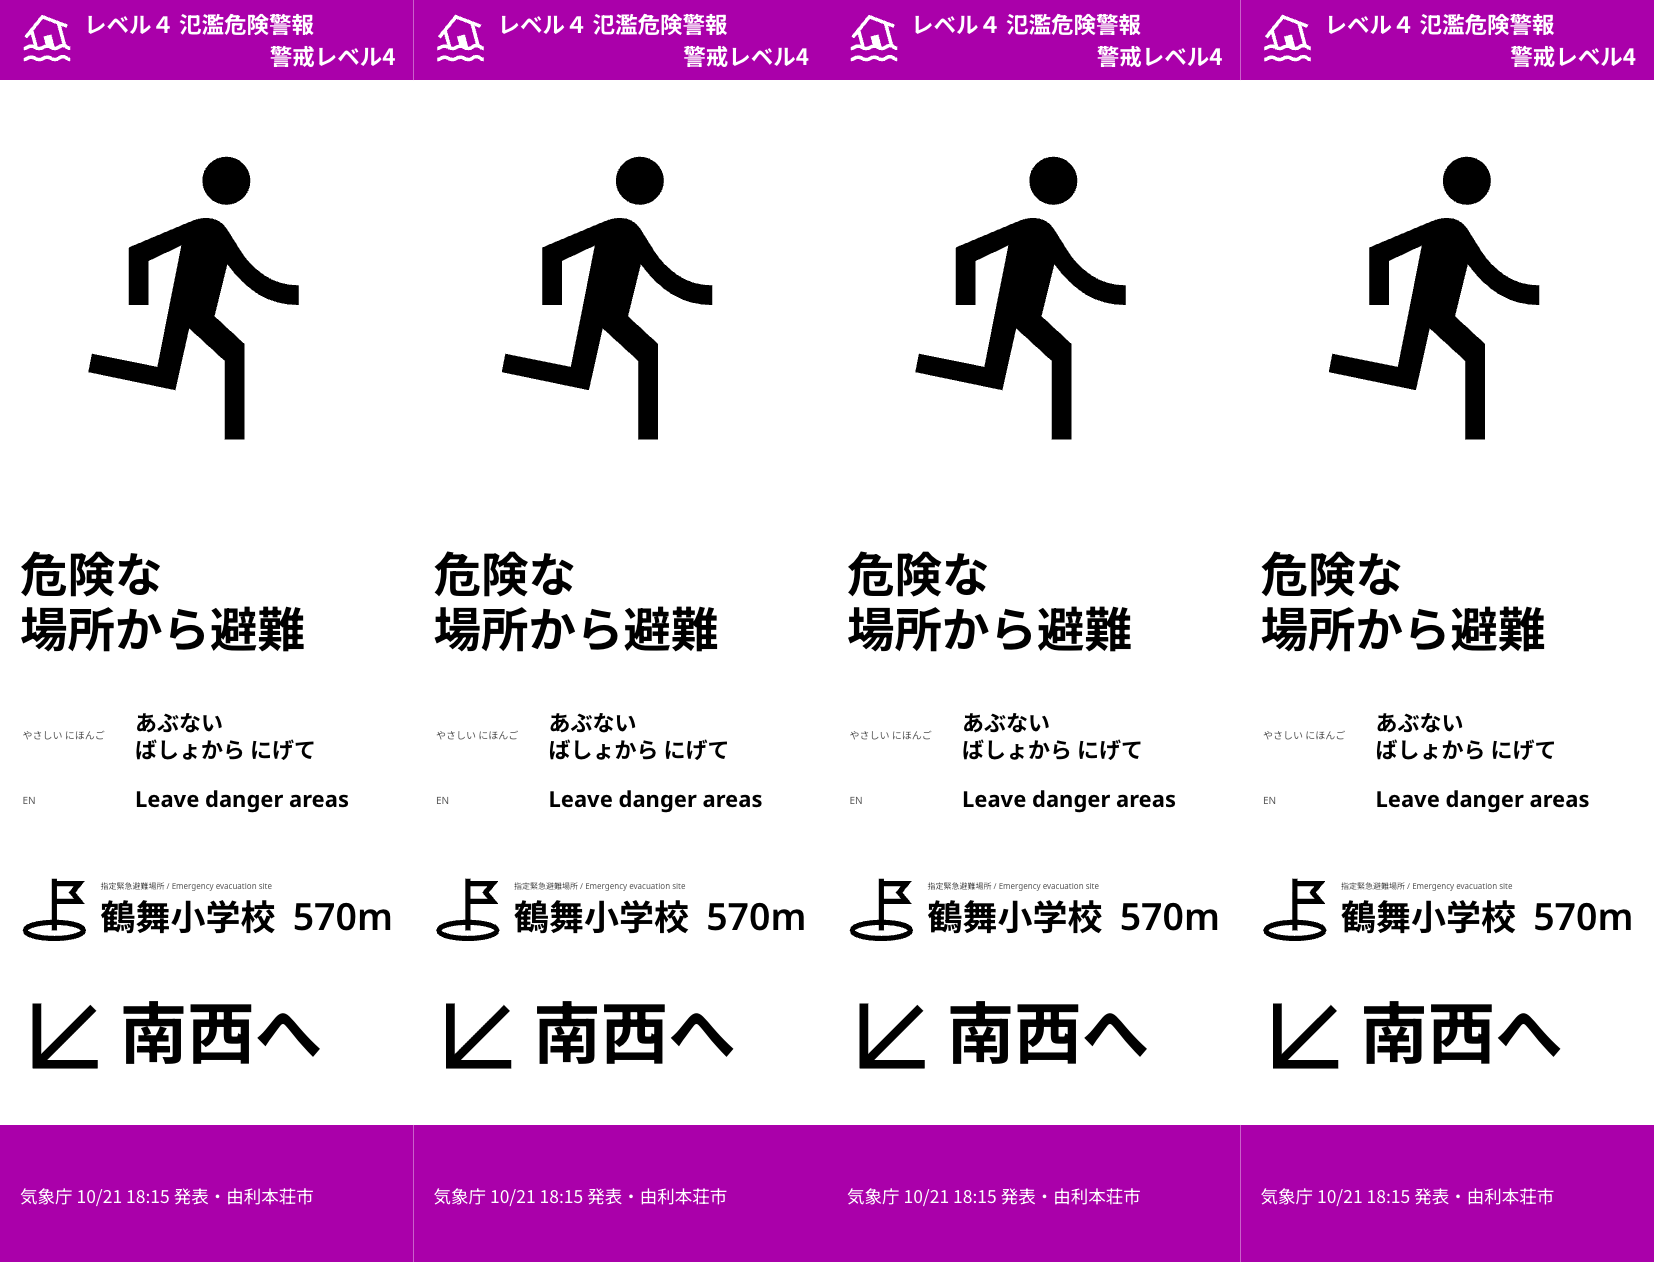
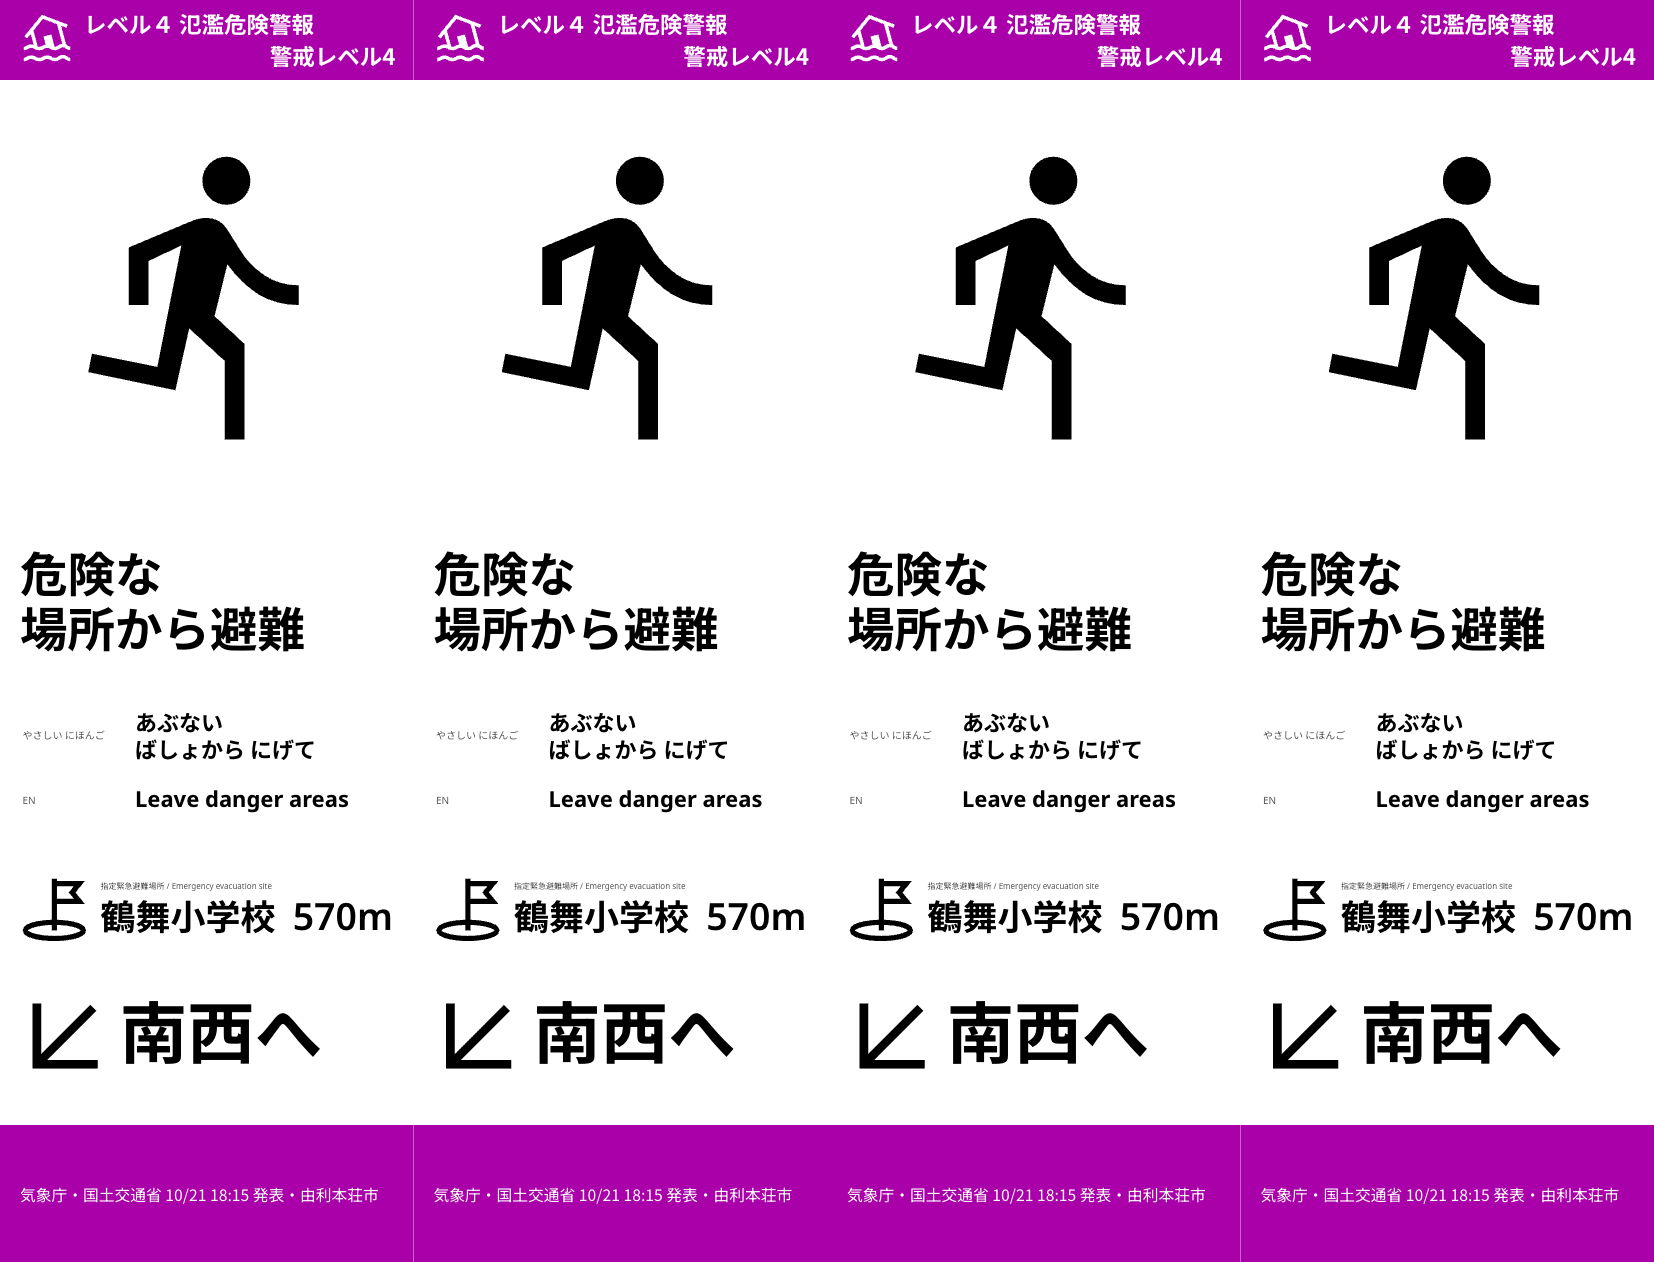
fix(layout): the source line never wraps; one that does not fit is set one step smaller
The pillar's foot band broke 気象庁・国土交通省 … 由利本荘市 before 市; every
Figma shape now keeps the source on one line and steps it to 0.9 when it
does not fit. A test renders the long source on all five shapes.
docs/screens regenerated.

diff --git a/app/test/source-line.test.ts b/app/test/source-line.test.ts
@@ -1,0 +1,76 @@
+import assert from 'node:assert/strict'
+import type { ChildProcess } from 'node:child_process'
+import { existsSync } from 'node:fs'
+import { createRequire } from 'node:module'
+import { after, before, describe, test } from 'node:test'
+import type { Shape } from '../layout/types.ts'
+import { SERVER_ENTRY, startServer } from './helpers.ts'
+
+const require = createRequire(import.meta.url)
+const puppeteer = require('puppeteer-core') as typeof import('puppeteer-core')
+
+const CHROME_PATH = process.env.CHROME_PATH ?? '/Applications/Google Chrome.app/Contents/MacOS/Google Chrome'
+const MUNICIPALITY = '05210'
+const LONG_SOURCE = '気象庁・国土交通省 10/21 15:55 発表・由利本荘市'
+const BULLETIN = 'VXKOii-202610211555-d5ccc7c6b547'
+const SIZES: Record<Shape, [number, number]> = { '16x9': [1920, 1080], '9x16': [1080, 1920], '32x9': [3840, 1080], '1x1': [1080, 1080], pillar: [6616, 5046] }
+const READY_MS = 30000
+
+const skip = (!existsSync(SERVER_ENTRY) && 'run `pnpm -F app build` first') || (!existsSync(CHROME_PATH) && `no Chrome at ${CHROME_PATH}`)
+
+// The source line never wraps: one that does not fit is set one step smaller (SOURCE_STEP_DOWN).
+describe('the source line stays on one line on every shape', { skip }, () => {
+  let base = ''
+  let child: ChildProcess | undefined
+  let browser: import('puppeteer-core').Browser | undefined
+
+  before(async () => {
+    ;({ base, child } = await startServer({ NUXT_ADMIN_TOKEN: '' }))
+    browser = await puppeteer.launch({ executablePath: CHROME_PATH })
+  })
+  after(async () => {
+    await browser?.close()
+    child?.kill()
+  })
+
+  for (const shape of Object.keys(SIZES) as Shape[]) {
+    test(shape, async () => {
+      const [width, height] = SIZES[shape]
+      const page = await browser!.newPage()
+      try {
+        await page.setViewport({ width, height, deviceScaleFactor: shape === 'pillar' ? 0.15 : 0.25 })
+        await page.evaluateOnNewDocument((source: string) => {
+          const original = window.fetch
+          window.fetch = async (input, init) => {
+            const response = await original(input, init)
+            const url = typeof input === 'string' ? input : input instanceof URL ? input.href : input.url
+            if (!url.includes('/api/admin/preview-layout')) return response
+            const screen = await response.json()
+            const cell = screen.cells.find((c: { role: string }) => c.role === 'source')
+            if (cell) cell.text = { ...cell.text, ja: source }
+            else screen.cells.push({ id: 'source', role: 'source', priority: 9, text: { ja: source }, motion: 'static' })
+            return new Response(JSON.stringify(screen), { status: 200, headers: { 'content-type': 'application/json' } })
+          }
+        }, LONG_SOURCE)
+        const src = encodeURIComponent(`/api/admin/preview-layout?municipality=${MUNICIPALITY}&bulletin=${BULLETIN}&shape=${shape}`)
+        await page.goto(`${base}/screen?shape=${shape}&clock=virtual&t=14480&src=${src}`, { waitUntil: 'networkidle0' })
+        await page.waitForSelector('.evac-screen[data-ready="1"]', { timeout: READY_MS })
+        const lines = await page.evaluate(() =>
+          [...document.querySelectorAll('.evac-screen')].map((el) => {
+            const source = el.querySelector('.source-text') as HTMLElement
+            const rect = source.getBoundingClientRect()
+            return { overflow: (el as HTMLElement).dataset.overflow ?? '', missing: (el as HTMLElement).dataset.missingRequired ?? '', text: source.textContent?.trim() ?? '', lines: Math.round(rect.height / parseFloat(getComputedStyle(source).lineHeight)), fits: source.scrollWidth <= source.clientWidth + 1 }
+          }),
+        )
+        for (const line of lines) {
+          assert.equal(line.text, '気象庁・国土交通省 10/21 15:55 発表・由利本荘市', `${shape} shows the whole source`)
+          assert.equal(line.lines, 1, `${shape} keeps the source on one line`)
+          assert.ok(line.fits, `${shape} fits the source in its line`)
+          assert.deepEqual([line.overflow, line.missing], ['', ''], `${shape} overflow/missing`)
+        }
+      } finally {
+        await page.close()
+      }
+    })
+  }
+})

diff --git a/app/app/components/EvacScreen.vue b/app/app/components/EvacScreen.vue
@@ -6,7 +6,7 @@ import { SHAPES, designScale } from '~~/layout/shapes'
 import { STACKED_BAND_MIN_PX, resolveLayout } from '~~/layout/templates'
 import { OVERFLOW_PICTOGRAM, overflowAttr, type CellOverflow } from '~~/layout/overflow'
 import type { DroppedCell, EvacScreen, LayoutCell, Shape } from '~~/layout/types'
-import { HEADLINE_STEP_DOWN, LINE_HEIGHT, SHELTER_STEP_DOWN, TYPE_PX } from '~~/layout/typography'
+import { HEADLINE_STEP_DOWN, LINE_HEIGHT, SHELTER_STEP_DOWN, SOURCE_STEP_DOWN, TYPE_PX } from '~~/layout/typography'
 import { pictogramsSettled } from '~/composables/usePictogramInk'
 
 const props = defineProps<{
@@ -34,6 +34,7 @@ const headlineScale = ref(1)
 const shelterNarrow = ref(false)
 const distanceBelow = ref(false)
 const languagesNarrow = ref(false)
+const sourceNarrow = ref(false)
 const stackedHeadline = computed(() => ['portrait', 'square', 'pillar'].includes(SHAPES[props.shape].cls))
 // 32:9 sets the headline in a narrow column, so it gets the same two-line limit as the stacked bands.
 const headlineLimited = computed(() => stackedHeadline.value || SHAPES[props.shape].cls === 'ribbon')
@@ -77,6 +78,7 @@ const rootStyle = computed(() => ({
   ...(shelterNarrow.value && layout.value.type?.shelterNarrow ? { '--type-shelter': layout.value.type.shelterNarrow } : {}),
   ...(shelterNarrow.value && !layout.value.figma ? { '--shelter-scale': SHELTER_STEP_DOWN } : {}),
   ...(languagesNarrow.value && layout.value.type?.languagesNarrow ? { '--type-languages': layout.value.type.languagesNarrow } : {}),
+  ...(sourceNarrow.value ? { '--source-scale': SOURCE_STEP_DOWN } : {}),
 }))
 
 const language = computed(() => languageStep(props.elapsedMs))
@@ -182,6 +184,11 @@ function shelterNameWraps(): boolean {
   return twoLines || lineTops.size > 1 || name.scrollWidth > name.clientWidth + OVERFLOW_TOLERANCE_PX
 }
 
+function sourceTooWide(): boolean {
+  const source = root.value?.querySelector<HTMLElement>('.source-text')
+  return !!source && source.scrollWidth > source.clientWidth + OVERFLOW_TOLERANCE_PX
+}
+
 async function fit() {
   const generation = ++fitGeneration
   ready.value = false
@@ -190,6 +197,7 @@ async function fit() {
   shelterNarrow.value = false
   distanceBelow.value = false
   languagesNarrow.value = false
+  sourceNarrow.value = false
   await loadFonts()
   for (;;) {
     await nextTick()
@@ -204,6 +212,10 @@ async function fit() {
     }
     if (layout.value.distanceBelow && !distanceBelow.value && shelterNameWraps()) {
       distanceBelow.value = true
+      continue
+    }
+    if (layout.value.figma && !sourceNarrow.value && sourceTooWide()) {
+      sourceNarrow.value = true
       continue
     }
     const over = measureOverflow()
@@ -276,6 +288,7 @@ watch(() => [props.screen, props.shape, props.variant], fit)
     :data-shelter-scale="shelterNarrow ? 'narrow' : undefined"
     :data-distance="distanceBelow ? 'below' : undefined"
     :data-languages-scale="languagesNarrow ? 'narrow' : undefined"
+    :data-source-scale="sourceNarrow ? 'narrow' : undefined"
     :data-ready="ready ? '1' : '0'"
     :data-bulletin-id="screen.alert.bulletin_id"
   >

diff --git a/app/app/assets/screen.css b/app/app/assets/screen.css
@@ -219,7 +219,8 @@ body {
   gap: calc(35 * var(--px));
 }
 .evac-screen.shape-portrait .is-figma .source-text {
-  font-size: calc(var(--type-source) * var(--px));
+  font-size: calc(var(--type-source) * var(--source-scale, 1) * var(--px));
+  white-space: nowrap;
   line-height: 1.1;
 }
 .evac-screen.shape-portrait,
@@ -348,7 +349,8 @@ body {
   top: calc(5 * var(--px));
 }
 .evac-screen.shape-landscape .is-figma .source-text {
-  font-size: calc(var(--type-source) * var(--px));
+  font-size: calc(var(--type-source) * var(--source-scale, 1) * var(--px));
+  white-space: nowrap;
   line-height: 1.2;
   text-align: right;
 }
@@ -383,7 +385,8 @@ body {
 }
 .evac-screen.shape-ribbon .is-figma .source-text {
   padding-left: calc(4 * var(--px));
-  font-size: calc(var(--type-source) * var(--px));
+  font-size: calc(var(--type-source) * var(--source-scale, 1) * var(--px));
+  white-space: nowrap;
   line-height: 1.2;
 }
 .evac-screen.shape-ribbon .is-figma .action-text {
@@ -611,10 +614,10 @@ body {
   overflow: visible;
 }
 .evac-screen.shape-square .is-figma .source-text {
-  font-size: calc(var(--type-source) * var(--px));
+  font-size: calc(var(--type-source) * var(--source-scale, 1) * var(--px));
+  white-space: nowrap;
   line-height: 1.2;
   color: var(--dark-band-ink);
-  white-space: nowrap;
 }
 
 .evac-screen.shape-pillar .is-figma .role-headline.is-stacked {
@@ -733,9 +736,10 @@ body {
 }
 .evac-screen.shape-pillar .cell.is-figma.is-band-row {
   align-items: flex-start;
-  padding: calc(238 * var(--px)) 0 0 calc(80 * var(--px));
+  padding: calc(238 * var(--px)) calc(82 * var(--px)) 0 calc(80 * var(--px));
 }
 .evac-screen.shape-pillar .is-figma .source-text {
-  font-size: calc(var(--type-source) * var(--px));
+  font-size: calc(var(--type-source) * var(--source-scale, 1) * var(--px));
+  white-space: nowrap;
   line-height: 1.2;
 }

diff --git a/app/layout/typography.ts b/app/layout/typography.ts
@@ -41,6 +41,8 @@ export const TYPE_PX: Record<TypeStep, number> = {
 export const HEADLINE_STACKED_MAX_LINES = 2
 // Headline and facility name shrink to the same floor (司令官 2026-11-05).
 export const HEADLINE_STEP_DOWN = 0.8
+// The source line never wraps; one that does not fit its line is set one step smaller (司令官 2026-11-05 L-7).
+export const SOURCE_STEP_DOWN = 0.9
 // A facility name that wraps is set one step smaller first (the 9:16 artboard's 90 → 72).
 export const SHELTER_STEP_DOWN = 0.8
 

diff --git a/docs/screens.md b/docs/screens.md
@@ -9,11 +9,11 @@ Regenerate with `pnpm -F app screens` (production build, loopback admin preview)
 
 ![レベル３氾濫警報 (16x9)](screens/lv3-16x9.png)
 
-2026-10-21 15:55 JST · レベル３氾濫警報 · 警戒レベル3 — source line: 気象庁 10/21 15:55 発表・由利本荘市
+2026-10-21 15:55 JST · レベル３氾濫警報 · 警戒レベル3 — source line: 気象庁・国土交通省 10/21 15:55 発表・由利本荘市
 
 ![レベル４氾濫危険警報 (16x9)](screens/lv4-16x9.png)
 
-2026-10-21 18:15 JST · レベル４氾濫危険警報 · 警戒レベル4 — source line: 気象庁 10/21 18:15 発表・由利本荘市
+2026-10-21 18:15 JST · レベル４氾濫危険警報 · 警戒レベル4 — source line: 気象庁・国土交通省 10/21 18:15 発表・由利本荘市
 
 ![レベル５氾濫特別警報 (16x9)](screens/lv5-16x9.png)
 
@@ -21,17 +21,17 @@ Regenerate with `pnpm -F app screens` (production build, loopback admin preview)
 
 ![レベル２氾濫注意報解除 (16x9)](screens/clear-16x9.png)
 
-2026-10-22 06:20 JST · レベル２氾濫注意報解除 · 解除 — source line: 気象庁 10/22 06:20 発表・由利本荘市
+2026-10-22 06:20 JST · レベル２氾濫注意報解除 · 解除 — source line: 気象庁・国土交通省 10/22 06:20 発表・由利本荘市
 
 ## 9x16
 
 ![レベル３氾濫警報 (9x16)](screens/lv3-9x16.png)
 
-2026-10-21 15:55 JST · レベル３氾濫警報 · 警戒レベル3 — source line: 気象庁 10/21 15:55 発表・由利本荘市
+2026-10-21 15:55 JST · レベル３氾濫警報 · 警戒レベル3 — source line: 気象庁・国土交通省 10/21 15:55 発表・由利本荘市
 
 ![レベル４氾濫危険警報 (9x16)](screens/lv4-9x16.png)
 
-2026-10-21 18:15 JST · レベル４氾濫危険警報 · 警戒レベル4 — source line: 気象庁 10/21 18:15 発表・由利本荘市
+2026-10-21 18:15 JST · レベル４氾濫危険警報 · 警戒レベル4 — source line: 気象庁・国土交通省 10/21 18:15 発表・由利本荘市
 
 ![レベル５氾濫特別警報 (9x16)](screens/lv5-9x16.png)
 
@@ -39,17 +39,17 @@ Regenerate with `pnpm -F app screens` (production build, loopback admin preview)
 
 ![レベル２氾濫注意報解除 (9x16)](screens/clear-9x16.png)
 
-2026-10-22 06:20 JST · レベル２氾濫注意報解除 · 解除 — source line: 気象庁 10/22 06:20 発表・由利本荘市
+2026-10-22 06:20 JST · レベル２氾濫注意報解除 · 解除 — source line: 気象庁・国土交通省 10/22 06:20 発表・由利本荘市
 
 ## 32x9
 
 ![レベル３氾濫警報 (32x9)](screens/lv3-32x9.png)
 
-2026-10-21 15:55 JST · レベル３氾濫警報 · 警戒レベル3 — source line: 気象庁 10/21 15:55 発表・由利本荘市
+2026-10-21 15:55 JST · レベル３氾濫警報 · 警戒レベル3 — source line: 気象庁・国土交通省 10/21 15:55 発表・由利本荘市
 
 ![レベル４氾濫危険警報 (32x9)](screens/lv4-32x9.png)
 
-2026-10-21 18:15 JST · レベル４氾濫危険警報 · 警戒レベル4 — source line: 気象庁 10/21 18:15 発表・由利本荘市
+2026-10-21 18:15 JST · レベル４氾濫危険警報 · 警戒レベル4 — source line: 気象庁・国土交通省 10/21 18:15 発表・由利本荘市
 
 ![レベル５氾濫特別警報 (32x9)](screens/lv5-32x9.png)
 
@@ -57,17 +57,17 @@ Regenerate with `pnpm -F app screens` (production build, loopback admin preview)
 
 ![レベル２氾濫注意報解除 (32x9)](screens/clear-32x9.png)
 
-2026-10-22 06:20 JST · レベル２氾濫注意報解除 · 解除 — source line: 気象庁 10/22 06:20 発表・由利本荘市
+2026-10-22 06:20 JST · レベル２氾濫注意報解除 · 解除 — source line: 気象庁・国土交通省 10/22 06:20 発表・由利本荘市
 
 ## 1x1
 
 ![レベル３氾濫警報 (1x1)](screens/lv3-1x1.png)
 
-2026-10-21 15:55 JST · レベル３氾濫警報 · 警戒レベル3 — source line: 気象庁 10/21 15:55 発表・由利本荘市
+2026-10-21 15:55 JST · レベル３氾濫警報 · 警戒レベル3 — source line: 気象庁・国土交通省 10/21 15:55 発表・由利本荘市
 
 ![レベル４氾濫危険警報 (1x1)](screens/lv4-1x1.png)
 
-2026-10-21 18:15 JST · レベル４氾濫危険警報 · 警戒レベル4 — source line: 気象庁 10/21 18:15 発表・由利本荘市
+2026-10-21 18:15 JST · レベル４氾濫危険警報 · 警戒レベル4 — source line: 気象庁・国土交通省 10/21 18:15 発表・由利本荘市
 
 ![レベル５氾濫特別警報 (1x1)](screens/lv5-1x1.png)
 
@@ -75,17 +75,17 @@ Regenerate with `pnpm -F app screens` (production build, loopback admin preview)
 
 ![レベル２氾濫注意報解除 (1x1)](screens/clear-1x1.png)
 
-2026-10-22 06:20 JST · レベル２氾濫注意報解除 · 解除 — source line: 気象庁 10/22 06:20 発表・由利本荘市
+2026-10-22 06:20 JST · レベル２氾濫注意報解除 · 解除 — source line: 気象庁・国土交通省 10/22 06:20 発表・由利本荘市
 
 ## pillar (four faces round a column, shown at 0.25)
 
 ![レベル３氾濫警報 (pillar)](screens/lv3-pillar.png)
 
-2026-10-21 15:55 JST · レベル３氾濫警報 · 警戒レベル3 — source line: 気象庁 10/21 15:55 発表・由利本荘市
+2026-10-21 15:55 JST · レベル３氾濫警報 · 警戒レベル3 — source line: 気象庁・国土交通省 10/21 15:55 発表・由利本荘市
 
 ![レベル４氾濫危険警報 (pillar)](screens/lv4-pillar.png)
 
-2026-10-21 18:15 JST · レベル４氾濫危険警報 · 警戒レベル4 — source line: 気象庁 10/21 18:15 発表・由利本荘市
+2026-10-21 18:15 JST · レベル４氾濫危険警報 · 警戒レベル4 — source line: 気象庁・国土交通省 10/21 18:15 発表・由利本荘市
 
 ![レベル５氾濫特別警報 (pillar)](screens/lv5-pillar.png)
 
@@ -93,7 +93,7 @@ Regenerate with `pnpm -F app screens` (production build, loopback admin preview)
 
 ![レベル２氾濫注意報解除 (pillar)](screens/clear-pillar.png)
 
-2026-10-22 06:20 JST · レベル２氾濫注意報解除 · 解除 — source line: 気象庁 10/22 06:20 発表・由利本荘市
+2026-10-22 06:20 JST · レベル２氾濫注意報解除 · 解除 — source line: 気象庁・国土交通省 10/22 06:20 発表・由利本荘市
 
 ## Tsunami (Yoshida, Shizuoka — official sample bulletins, drill)
 
